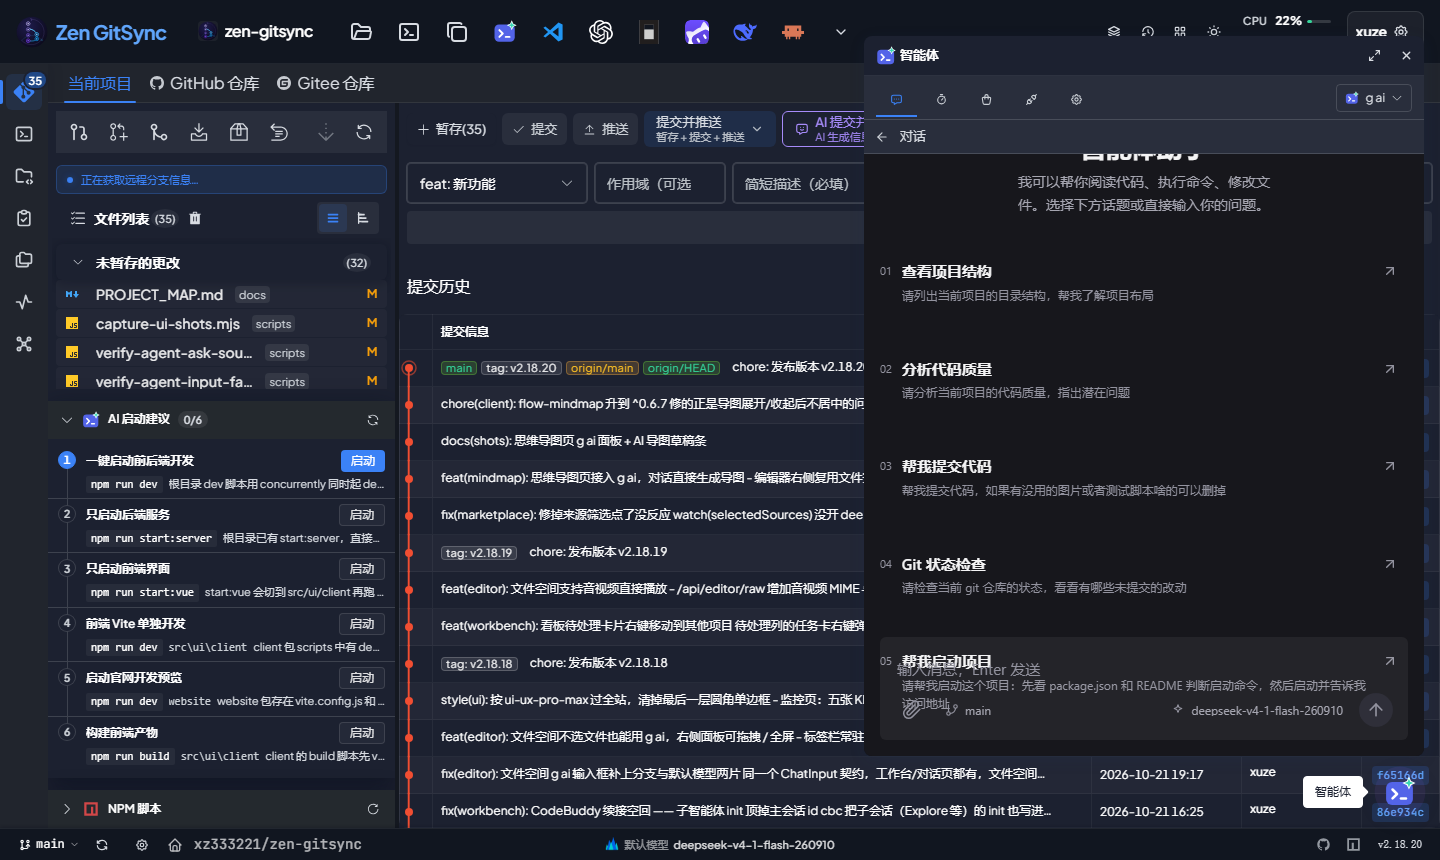
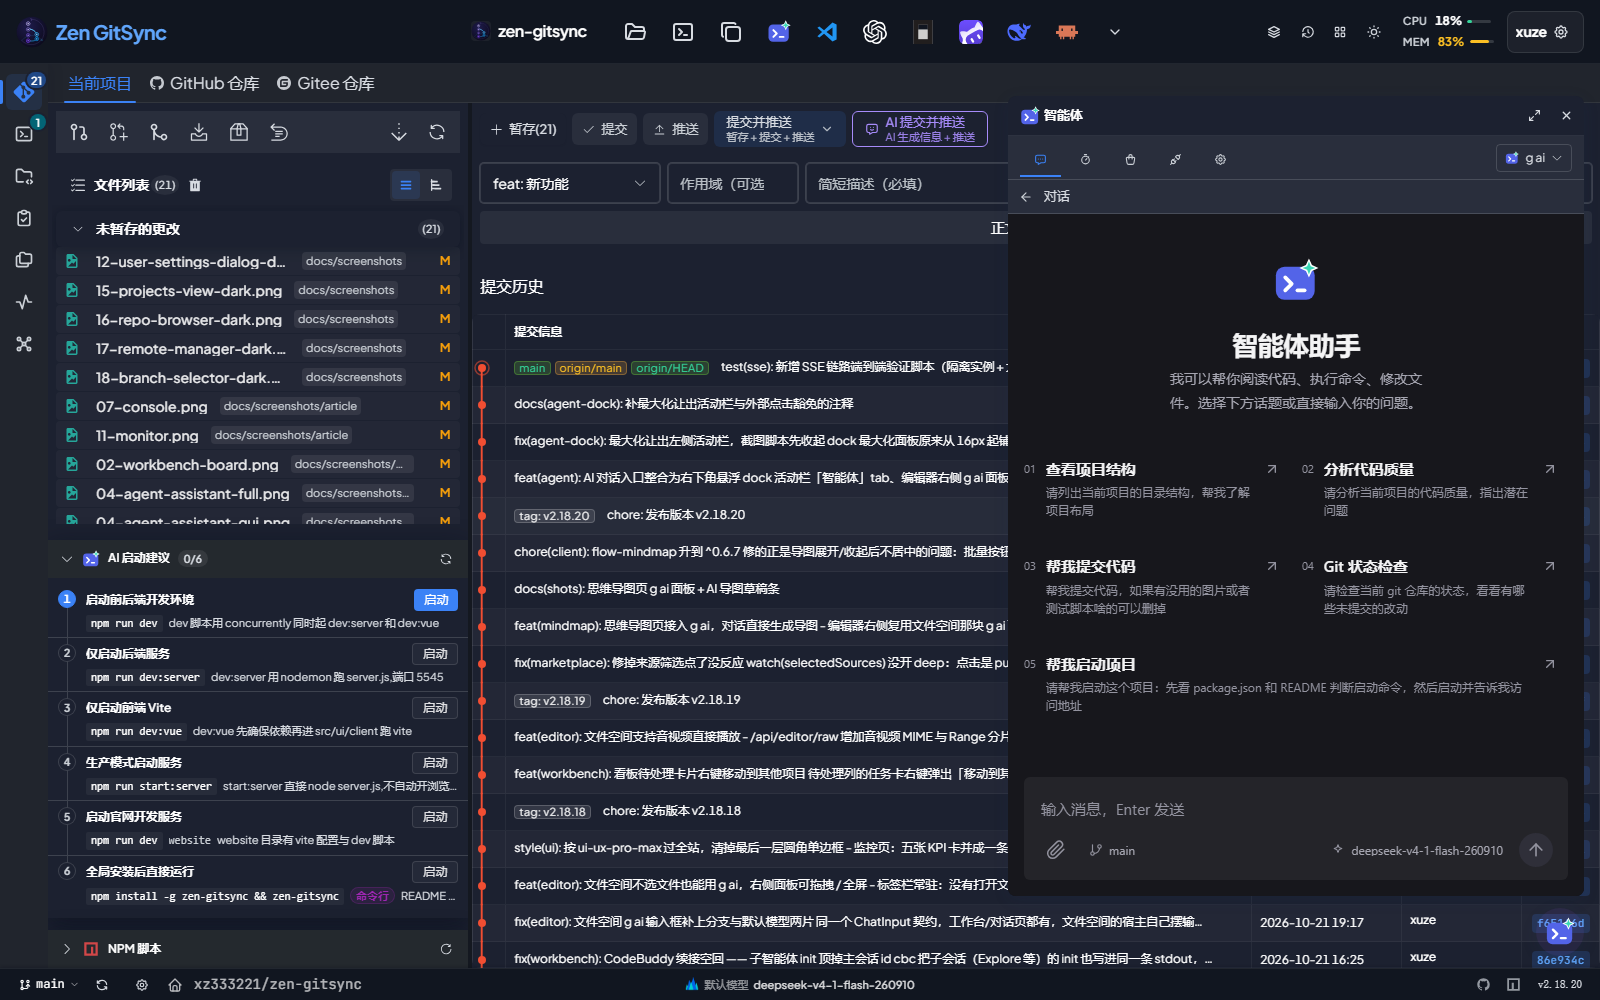
feat(agent-dock): 面板尺寸随屏幕自适应（4K 屏不再是一小块）
宽度 clamp(560px, 36vw, 1120px)、高度 clamp(600px, 80vh, 1080px)：
1440/1600 屏维持 560-ish，1920 → 691x864，2560（4K@150%）→ 922x1080，
3840（4K@100%）→ 1120x1080；小屏仍由 max-width / max-height 兜底。

同时把 dock 默认态改成恒窄屏单页（AgentView 新增 force-narrow prop，仅最大化时
关掉）：否则 691px 会越过 680 阈值进两栏，聊天区反而缩到 451px，出现「窗口变大、
聊天变窄」的怪区间。现在规则与屏幕大小无关 —— 默认单页吃满面板宽，最大化两栏。

diff --git a/src/ui/client/src/components/AgentDock.vue b/src/ui/client/src/components/AgentDock.vue
@@ -31,8 +31,9 @@
     并把问题发给 AgentView.askQuestion（见 utils/agentDockBus.ts）。
   - 编辑器上下文：App.vue 判定 activeView==='editor' 时传入当前激活文件，
     发送时随消息注入（openFilePath，请求级、不落会话历史）。
-  - 尺寸：默认 560×720；头部「最大化」铺到活动栏右侧的近满屏（≥680 宽 →
-    AgentView 宽屏两栏，就是旧 tab 的完整体验）。最大化态是 ref，开关面板不重置。
+  - 尺寸：随视口自适应 —— 宽 clamp(560px, 36vw, 1120px)，高 clamp(600px, 80vh, 1080px)
+    （4K 屏上不再是固定 560 的小块）；头部「最大化」铺到活动栏右侧的近满屏
+    （≥680 宽 → AgentView 宽屏两栏，就是旧 tab 的完整体验）。最大化态是 ref，开关面板不重置。
   - 关闭四条路：Esc / 再点 mascot / 头部 ✕ / 点击面板外部（活动栏与 EP 弹层豁免 ——
     点视图按钮切视图时对话必须还在右下角）。
 -->
@@ -249,6 +250,7 @@ onBeforeUnmount(() => {
           ref="agentViewRef"
           :context-file-path="props.contextFile?.path"
           :context-file-name="props.contextFile?.name"
+          :force-narrow="!maximized"
         />
       </div>
     </section>
@@ -345,8 +347,16 @@ onBeforeUnmount(() => {
   flex-direction: column;
   min-height: 0;
   /* 默认 560×720；视口不够时按 calc 收缩 */
-  width: min(560px, calc(100vw - 32px));
-  height: min(720px, calc(100vh - 140px));
+  /* 尺寸随屏幕自适应（用户在 4K 屏上反馈 560px 只剩一小块）：
+     宽 = clamp(560, 36vw, 1120)，高 = clamp(600, 80vh, 1080)。
+     - 1440 / 1600 宽的屏仍是 560-ish（不改变常规屏观感）
+     - 2560（4K@150%）→ 922×1080；3840（4K@100%）→ 1120×1080
+     - 小屏继续被 max-width / max-height 压住，不会顶穿
+     宽度 ≥680 时 AgentView 自动进宽屏两栏（会话列表 | 对话），正好吃下这块尺寸 */
+  width: clamp(560px, 36vw, 1120px);
+  max-width: calc(100vw - 32px);
+  height: clamp(600px, 80vh, 1080px);
+  max-height: calc(100vh - 140px);
   background: var(--bg-container);
   border-radius: var(--radius-lg);
   box-shadow: var(--shadow-hover);

diff --git a/src/ui/client/src/views/AgentView.vue b/src/ui/client/src/views/AgentView.vue
@@ -54,6 +54,15 @@ const props = defineProps<{
   contextFilePath?: string
   /** 当前激活文件名（只用于输入区那张上下文小卡） */
   contextFileName?: string
+  /**
+   * dock 传入：强制窄屏单页（会话列表页 ↔ 对话页）。
+   *
+   * 为什么需要它：悬浮 dock 默认面板宽到 1120px，若按宽度阈值（680）自动进两栏，
+   * 中间会有一段「窗口变大、聊天区反而变窄」的怪区间（691px 面板 → 侧栏 240 + 聊天 451，
+   * 比 560px 单页时更挤）。dock 的规则改成与屏幕大小无关：
+   * **默认恒单页（聊天吃满面板宽），点最大化才两栏**（最大化 ≥680，切回宽屏体验）。
+   */
+  forceNarrow?: boolean
 }>()
 
 const configStore = useConfigStore()
@@ -62,7 +71,9 @@ const gitStore = useGitStore()
 // ── 面板宽度：够窄就把「会话列表」和「对话」折成两个页面 ──────────
 // 量的是这个视图容器自己的宽度（窄屏下拖动侧栏 / 分屏都会变；视口宽度反映不了）。
 const rootRef = ref<HTMLElement | null>(null)
-const { width, narrow } = useNarrowPane(rootRef)
+const { width, narrow: measuredNarrow } = useNarrowPane(rootRef)
+// forceNarrow（dock 默认态）压过实测值：见 props.forceNarrow 的注释
+const narrow = computed(() => props.forceNarrow === true || measuredNarrow.value)
 /**
  * 头部至少这么宽才摆「静默 x 秒」。
  *
